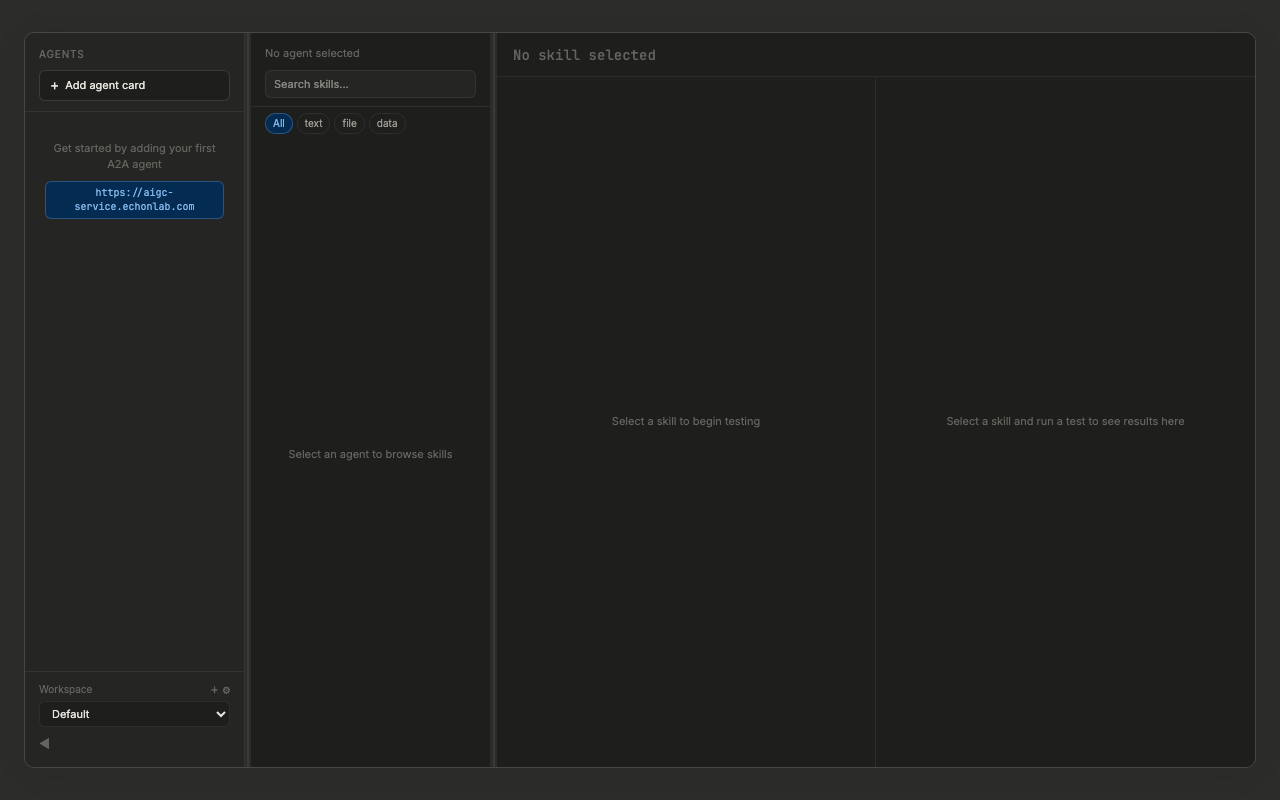
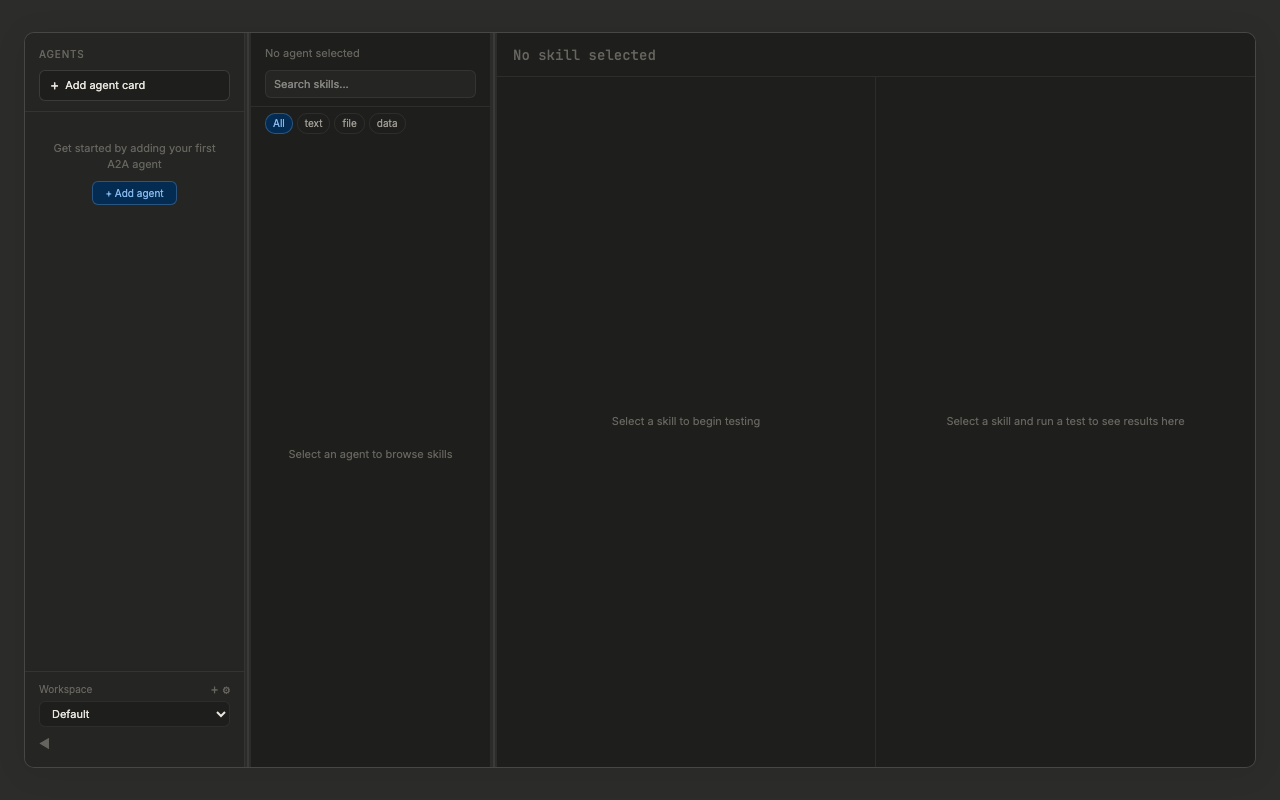
docs: split README into EN/CN, remove echonlab from sidebar

Changed region(s): [[0.0312, 0.2188, 0.1875, 0.2812]]

diff --git a/src/components/layout/Sidebar.tsx b/src/components/layout/Sidebar.tsx
@@ -51,9 +51,6 @@ export function Sidebar() {
     createWorkspace(name.trim());
   };
 
-  const handleAddFromExample = () => {
-    setShowAddDialog(true);
-  };
 
   return (
     <aside
@@ -152,21 +149,20 @@ export function Sidebar() {
               Get started by adding your first A2A agent
             </div>
             <button
-              onClick={handleAddFromExample}
+              onClick={() => setShowAddDialog(true)}
               style={{
                 fontSize: 10,
-                padding: "4px 8px",
+                padding: "4px 12px",
                 background: "var(--bg-info)",
                 border: "0.5px solid var(--border-info)",
                 borderRadius: "var(--radius-md)",
                 color: "var(--text-info)",
                 cursor: "pointer",
-                fontFamily: "var(--font-mono, 'JetBrains Mono', monospace)",
+                fontFamily: "inherit",
                 lineHeight: 1.4,
               }}
-              title="Add the AIGC example agent"
             >
-              https://aigc-service.echonlab.com
+              + Add agent
             </button>
           </div>
         )}

diff --git a/docs/README_CN.md b/docs/README_CN.md
@@ -1,0 +1,147 @@
+<div align="center">
+
+# 🔨 A2A-Forge
+
+**A2A 协议 Agent 测试调试桌面工具**
+
+[![Build](https://img.shields.io/github/actions/workflow/status/learningpro/a2a-forge/build.yml?style=flat-square)](https://github.com/learningpro/a2a-forge/actions)
+[![License: MIT](https://img.shields.io/badge/license-MIT-blue.svg?style=flat-square)](LICENSE)
+[![Tauri](https://img.shields.io/badge/Tauri-2.x-FFC131?style=flat-square&logo=tauri)](https://v2.tauri.app/)
+[![React](https://img.shields.io/badge/React-18-61DAFB?style=flat-square&logo=react)](https://react.dev/)
+
+中文 | [English](README.md)
+
+---
+
+<img src="docs/screenshots/light-mode.png" alt="A2A-Forge 浅色模式" width="800" />
+
+<sub>三栏布局：Agent 侧边栏 · 技能浏览器 · 测试面板与实时结果</sub>
+
+<img src="docs/screenshots/dark-mode.png" alt="A2A-Forge 深色模式" width="800" />
+
+<sub>深色模式，自动跟随系统主题</sub>
+
+</div>
+
+---
+
+## 什么是 A2A-Forge？
+
+A2A-Forge 是一款原生桌面应用，专为开发 [A2A（Agent-to-Agent）](https://google.github.io/A2A/) 协议 Agent 的工程师设计。可以理解为 **A2A 版的 Postman** —— 输入 Agent URL，浏览所有技能，直接运行测试，无需写代码。
+
+基于 [Tauri 2](https://v2.tauri.app/) 构建，快速、轻量、跨平台。
+
+## 功能特性
+
+- 🔍 **Agent 发现** — 自动获取并解析 `.well-known/agent.json` Agent 卡片
+- ⚡ **技能测试** — 自适应输入（文本、JSON、文件上传），一键调用任意技能
+- 📡 **实时流式** — 基于 SSE 的流式响应，异步任务自动轮询
+- 🔐 **安全认证** — 每个 Agent 独立配置默认 Headers，凭证存储在系统钥匙串
+- 🖼 **智能预览** — 自动检测并内联渲染图片、视频、音频
+- 📋 **Curl 导出** — 一键复制等效 curl 命令
+- 📜 **历史记录** — 可搜索的执行历史，支持保存测试用例一键重跑
+- 🗂 **工作空间** — 将 Agent 分组管理到不同工作空间
+- 🌗 **主题切换** — 跟随系统的深色/浅色模式，支持手动覆盖
+- ⌨ **键盘优先** — `Ctrl+N` 添加 · `Ctrl+Enter` 运行 · `Ctrl+Shift+C` 复制 curl
+
+## 快速开始
+
+### 环境要求
+
+- [Rust](https://rustup.rs/)（stable 工具链）
+- [Node.js](https://nodejs.org/) v18+
+- 平台依赖：参见 [Tauri 环境准备](https://v2.tauri.app/start/prerequisites/)
+
+### 安装运行
+
+```bash
+git clone https://github.com/learningpro/a2a-forge.git
+cd a2a-forge
+npm install
+npm run tauri dev
+```
+
+### 生产构建
+
+```bash
+npm run tauri build
+# 输出：.dmg (macOS) / .msi + .exe (Windows)
+```
+
+## 使用方法
+
+### 1. 添加 Agent
+
+点击 **+ Add agent card** 或按 `Ctrl/Cmd+N`，输入 Agent 的 URL，A2A-Forge 会自动获取 Agent 卡片并展示所有技能。
+
+### 2. 配置认证
+
+点击 Agent 名称旁的 ⚙ 齿轮图标，设置默认 Headers（如 `X-API-Key`）。配置会持久化到本地数据库，对该 Agent 的所有技能测试自动生效。
+
+### 3. 测试技能
+
+选择技能 → 填写输入 → 点击 **Run**（或 `Ctrl/Cmd+Enter`）。响应查看器会智能渲染结果 —— 图片直接显示、视频可播放、JSON 语法高亮。
+
+### 4. 回顾迭代
+
+每次执行自动保存到历史记录。常用请求可保存为命名测试用例，一键重跑。支持复制等效 curl 命令分享给团队。
+
+## 技术栈
+
+| 层级 | 技术 |
+|------|------|
+| 运行时 | [Tauri 2.x](https://v2.tauri.app/) (Rust) |
+| 前端 | React 18 + TypeScript |
+| 样式 | [Tailwind CSS 4](https://tailwindcss.com/) |
+| 状态管理 | [Zustand 5](https://zustand-demo.pmnd.rs/) |
+| 数据库 | SQLite (via tauri-plugin-sql) |
+| 类型桥接 | [tauri-specta](https://github.com/oscartbeaumont/tauri-specta) |
+| 编辑器 | [Monaco Editor](https://microsoft.github.io/monaco-editor/) |
+
+## 路线图
+
+### v0.1 — 当前版本 ✅
+
+Agent 管理、技能浏览、自适应测试、异步轮询、SSE 流式、智能媒体预览、历史记录、认证配置、工作空间
+
+### v0.2 — 自动化测试
+
+- [ ] 测试套件 — 将测试用例组合为自动化序列
+- [ ] 断言验证 — 定义预期输出并自动校验
+- [ ] CI 集成 — 命令行运行测试套件
+- [ ] 测试报告 — 导出 HTML/JSON 格式报告
+
+### v0.3 — 本地注册代理
+
+- [ ] 本地 A2A 注册中心 — 作为 Agent 发现的代理
+- [ ] 请求/响应拦截与修改
+- [ ] 延迟模拟与故障注入
+- [ ] 流量录制与回放
+
+### v0.4 — 社区中心
+
+- [ ] 社区 Agent 目录 — 发现和加载优质 A2A Agent
+- [ ] 共享测试集 — 导入/导出社区测试套件
+- [ ] Agent 健康监控 — 定期刷新卡片并告警
+- [ ] 收藏夹 — 收藏和整理常用 Agent
+
+### v0.5 — 高级工作空间
+
+- [ ] 工作空间共享 — 导出/导入完整工作空间配置
+- [ ] 环境变量 — 按工作空间的变量替换
+- [ ] 请求链 — 将一个技能的输出传递给另一个
+- [ ] Diff 视图 — 跨运行对比响应结果
+
+## 贡献
+
+欢迎贡献！请提交 Issue 或 Pull Request。
+
+```bash
+npm run tauri dev        # 启动开发服务器
+npx tsc --noEmit         # 类型检查
+npx vitest run           # 运行测试
+```
+
+## 许可证
+
+[MIT](LICENSE) — Copyright 2026 Orange Dong

diff --git a/docs/README.md b/docs/README.md
@@ -9,7 +9,7 @@
 [![Tauri](https://img.shields.io/badge/Tauri-2.x-FFC131?style=flat-square&logo=tauri)](https://v2.tauri.app/)
 [![React](https://img.shields.io/badge/React-18-61DAFB?style=flat-square&logo=react)](https://react.dev/)
 
-[English](#features) · [中文](#功能特性)
+[中文](README_CN.md) | English
 
 ---
 
@@ -102,15 +102,7 @@ Every execution is saved to history. Save frequently-used requests as named test
 
 ### v0.1 — Current Release ✅
 
-- Agent card management (add, delete, refresh, import/export)
-- Skill browser with search and mode filtering
-- Adaptive test input (text, JSON, file)
-- Sync + async task execution with auto-polling
-- SSE streaming support
-- Response viewer with smart media preview
-- Test history and saved test cases
-- Per-agent auth headers (persisted)
-- Workspaces, settings, keyboard shortcuts
+Agent card management, skill browser, adaptive test input, async task execution with auto-polling, SSE streaming, response viewer with smart media preview, test history, saved test cases, per-agent auth headers, workspaces, settings, keyboard shortcuts.
 
 ### v0.2 — Automated Testing
 
@@ -142,120 +134,14 @@ Every execution is saved to history. Save frequently-used requests as named test
 
 ## Contributing
 
-Contributions are welcome! Please read our contributing guidelines before submitting a PR.
+Contributions are welcome! Please open an issue or submit a pull request.
 
 ```bash
-# Development
 npm run tauri dev        # Start dev server
 npx tsc --noEmit         # Type check
 npx vitest run           # Run tests
 ```
 
 ## License
-
-[MIT](LICENSE) — Copyright 2026 Orange Dong
-
----
-
-<div align="center">
-
-# 🔨 A2A-Forge
-
-**A2A 协议 Agent 测试调试桌面工具**
-
-</div>
-
-## 功能特性
-
-A2A-Forge 是一款原生桌面应用，专为开发 [A2A（Agent-to-Agent）](https://google.github.io/A2A/) 协议 Agent 的工程师设计。可以理解为 **A2A 版的 Postman** —— 输入 Agent URL，浏览所有技能，直接运行测试，无需写代码。
-
-- 🔍 **Agent 发现** — 自动获取并解析 `.well-known/agent.json` Agent 卡片
-- ⚡ **技能测试** — 自适应输入（文本、JSON、文件上传），一键调用任意技能
-- 📡 **实时流式** — 基于 SSE 的流式响应，异步任务自动轮询
-- 🔐 **安全认证** — 每个 Agent 独立配置默认 Headers，凭证存储在系统钥匙串
-- 🖼 **智能预览** — 自动检测并内联渲染图片、视频、音频
-- 📋 **Curl 导出** — 一键复制等效 curl 命令
-- 📜 **历史记录** — 可搜索的执行历史，支持保存测试用例一键重跑
-- 🗂 **工作空间** — 将 Agent 分组管理到不同工作空间
-- 🌗 **主题切换** — 跟随系统的深色/浅色模式，支持手动覆盖
-- ⌨ **键盘优先** — `Ctrl+N` 添加 · `Ctrl+Enter` 运行 · `Ctrl+Shift+C` 复制 curl
-
-## 快速开始
-
-### 环境要求
-
-- [Rust](https://rustup.rs/)（stable 工具链）
-- [Node.js](https://nodejs.org/) v18+
-- 平台依赖：参见 [Tauri 环境准备](https://v2.tauri.app/start/prerequisites/)
-
-### 安装运行
-
-```bash
-git clone https://github.com/learningpro/a2a-forge.git
-cd a2a-forge
-npm install
-npm run tauri dev
-```
-
-### 生产构建
-
-```bash
-npm run tauri build
-# 输出：.dmg (macOS) / .msi + .exe (Windows)
-```
-
-## 使用方法
-
-### 1. 添加 Agent
-
-点击 **+ Add agent card** 或按 `Ctrl/Cmd+N`，输入 Agent 的 URL，A2A-Forge 会自动获取 Agent 卡片并展示所有技能。
-
-### 2. 配置认证
-
-点击 Agent 名称旁的 ⚙ 齿轮图标，设置默认 Headers（如 `X-API-Key`）。配置会持久化到本地数据库，对该 Agent 的所有技能测试自动生效。
-
-### 3. 测试技能
-
-选择技能 → 填写输入 → 点击 **Run**（或 `Ctrl/Cmd+Enter`）。响应查看器会智能渲染结果 —— 图片直接显示、视频可播放、JSON 语法高亮。
-
-### 4. 回顾迭代
-
-每次执行自动保存到历史记录。常用请求可保存为命名测试用例，一键重跑。支持复制等效 curl 命令分享给团队。
-
-## 路线图
-
-### v0.1 — 当前版本 ✅
-
-Agent 管理、技能浏览、自适应测试、异步轮询、SSE 流式、智能媒体预览、历史记录、认证配置、工作空间
-
-### v0.2 — 自动化测试
-
-- [ ] 测试套件 — 将测试用例组合为自动化序列
-- [ ] 断言验证 — 定义预期输出并自动校验
-- [ ] CI 集成 — 命令行运行测试套件
-- [ ] 测试报告 — 导出 HTML/JSON 格式报告
-
-### v0.3 — 本地注册代理
-
-- [ ] 本地 A2A 注册中心 — 作为 Agent 发现的代理
-- [ ] 请求/响应拦截与修改
-- [ ] 延迟模拟与故障注入
-- [ ] 流量录制与回放
-
-### v0.4 — 社区中心
-
-- [ ] 社区 Agent 目录 — 发现和加载优质 A2A Agent
-- [ ] 共享测试集 — 导入/导出社区测试套件
-- [ ] Agent 健康监控 — 定期刷新卡片并告警
-- [ ] 收藏夹 — 收藏和整理常用 Agent
-
-### v0.5 — 高级工作空间
-
-- [ ] 工作空间共享 — 导出/导入完整工作空间配置
-- [ ] 环境变量 — 按工作空间的变量替换
-- [ ] 请求链 — 将一个技能的输出传递给另一个
-- [ ] Diff 视图 — 跨运行对比响应结果
-
-## 许可证
 
 [MIT](LICENSE) — Copyright 2026 Orange Dong
